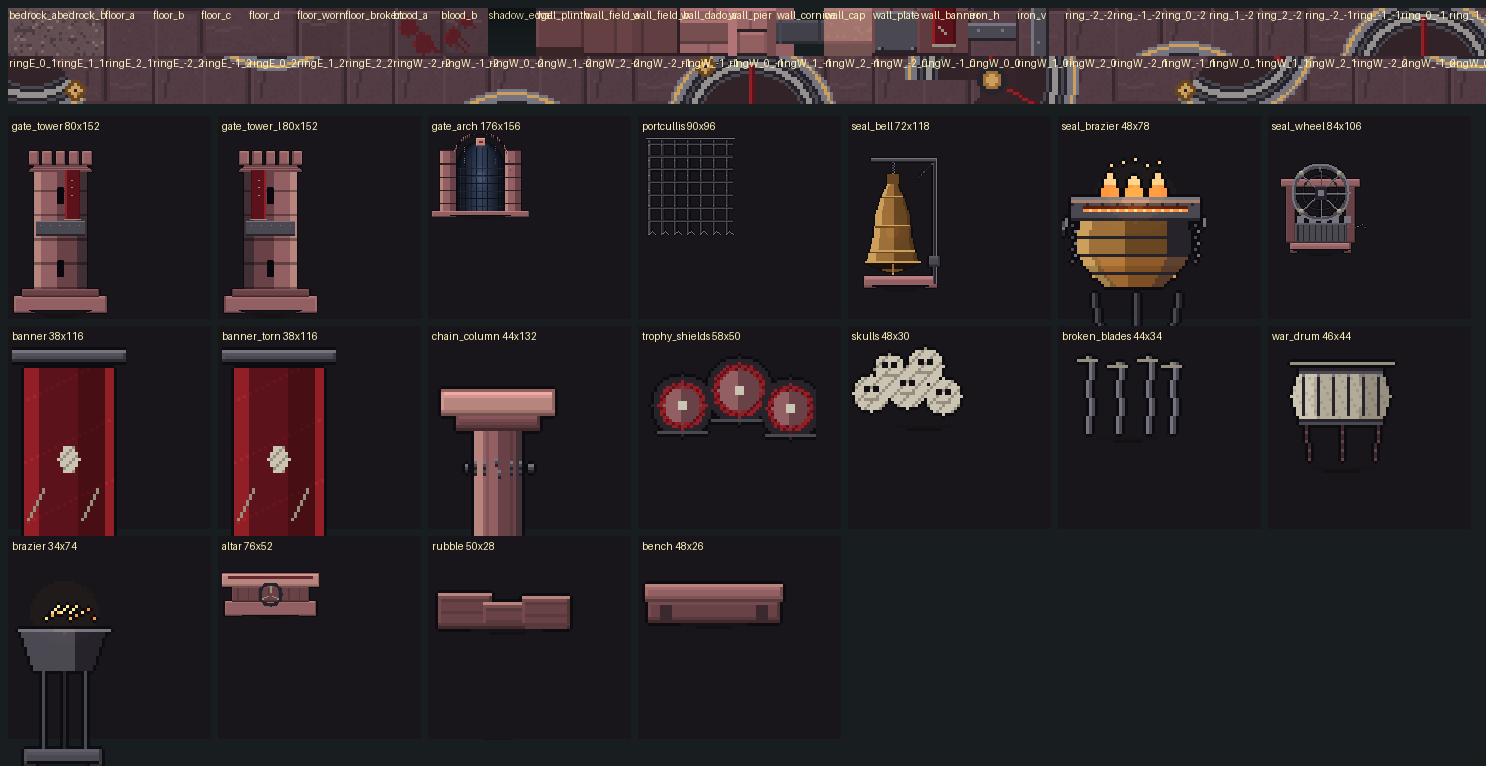
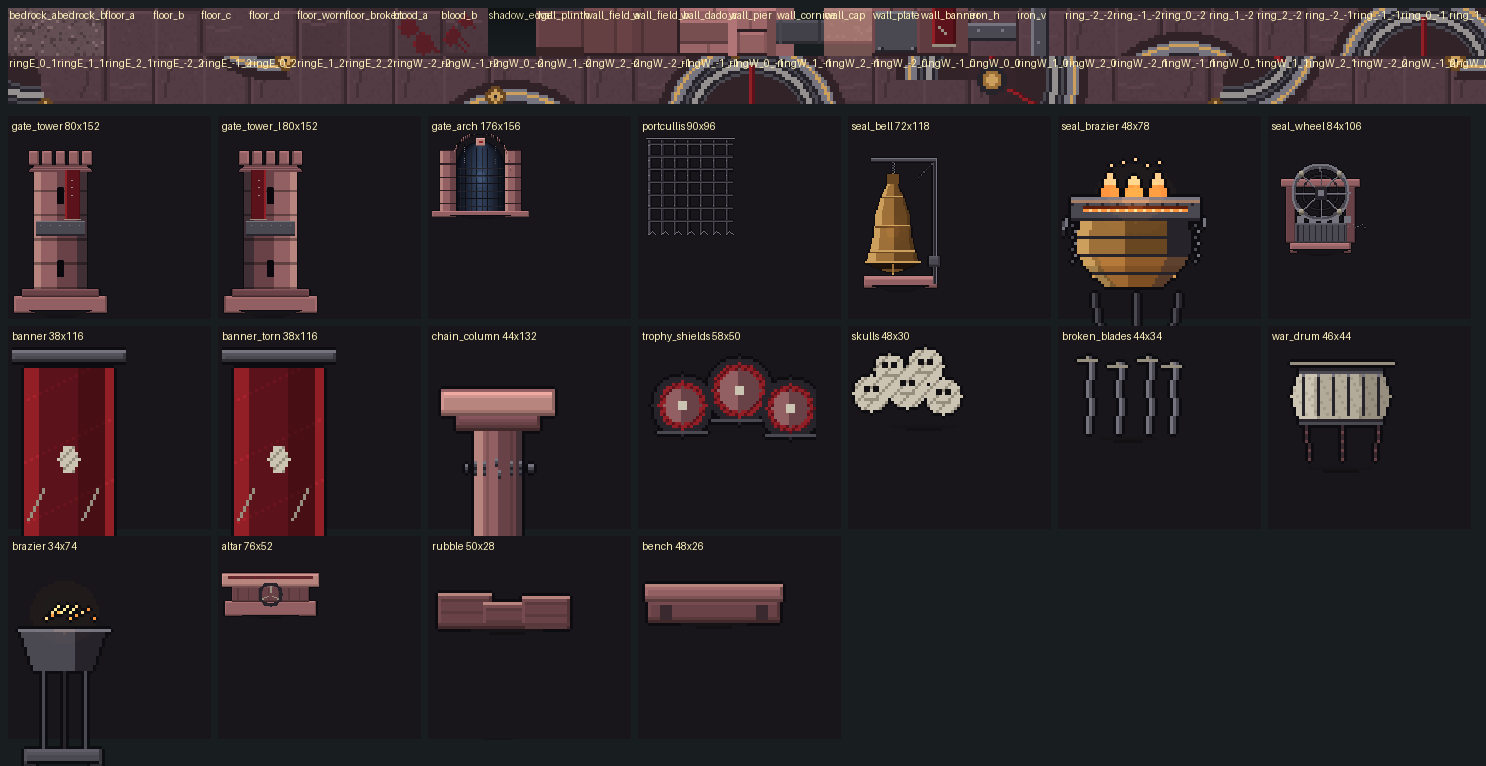
fix(chapter1-l9): give the seal rings a pad, a socket and a value of their own
The rings were cut as horseshoes in the previous commit but the cut ends were
still invisible: a socket drawn at the arc's extremity falls in the wall cell
beyond it, and no floor frame can be painted there. Measured against the room,
the only angles whose ends land in a paintable column are wide ones, so the cut
is now 80 degrees and each end carries a bronze socket cap with a bolt - inside
the last floor cell.

They were also still nearly invisible for a second reason: near-black iron on
oxblood paving, at a third of its value under this level's ambient, is one
value. Every ring now sits on a recessed dark pad that reads as a channel cut
into the paving, and the arc body is steel and brass with the blood spokes the
only saturated red left on it.

diff --git a/tools/level9/art_gatehouse.py b/tools/level9/art_gatehouse.py
@@ -211,14 +211,33 @@ def ring_tiles(radius: int, opening: str | None = None, tag: str = "ring"):
             canvas.paste(flag(43, (tx % 2) + (ty % 2) * 2), (tx * T, ty * T))
     cx = cy = (size - 1) / 2.0
     r_out = radius * T - 3
-    gap = {"E": (-52.0, 52.0), "W": (128.0, 232.0),
-           "N": (-142.0, -38.0), "S": (38.0, 142.0)}.get(opening or "")
+    # The cuts are wide on purpose. At the west and east stations the wall stands
+    # only two cells from the seal, so a cut at 52 degrees would put both ends in
+    # cells that belong to the wall - and a floor frame cannot be painted there.
+    # At 80 degrees the ends fall inside the last paintable column, which is the
+    # only place a socket on the end of a horseshoe can visibly exist.
+    gap = {"E": (-80.0, 80.0), "W": (100.0, 260.0),
+           "N": (-170.0, -10.0), "S": (10.0, 170.0)}.get(opening or "")
 
     def in_gap(angle_deg: float) -> bool:
         if gap is None:
             return False
         a = ((angle_deg + 180.0) % 360.0) - 180.0
         return gap[0] <= a <= gap[1]
+
+    # A dark inlaid pad under the whole mechanism. The ring is nearly black iron
+    # and brass: on oxblood paving, at a third of its value under this level's
+    # ambient, a ring drawn straight onto the floor was invisible. The pad gives
+    # the metal something to sit on, and reads as a channel cut into the paving.
+    pad = mix(STONE_DARK, JOINT, 0.62)
+    for y in range(size):
+        for x in range(size):
+            d = math.hypot(x - cx, y - cy)
+            if d > r_out + 3:
+                continue
+            if in_gap(math.degrees(math.atan2(y - cy, x - cx))):
+                continue
+            px(canvas, x, y, pad)
 
     for y in range(size):
         for x in range(size):
@@ -258,21 +277,23 @@ def ring_tiles(radius: int, opening: str | None = None, tag: str = "ring"):
                 px(canvas, x, y, BRONZE)
             elif d < 5:
                 px(canvas, x, y, IRON_DARK)
-    # terminal collars: each cut end is capped with a bronze socket and a bolt,
-    # so the break is an authored stop where the mechanism enters the plinth
+    # Terminal socket: where a horseshoe is cut at the wall, the mechanism does
+    # not just stop - it enters a bronze socket set into the paving. Drawn on the
+    # *painted* side of the cut, because the cells beyond it are wall and can
+    # never carry a floor frame; a collar drawn in the gap was never visible.
     if gap is not None:
         for angle_deg in gap:
             a = math.radians(angle_deg)
-            bx = cx + math.cos(a) * (r_out - 4)
-            by = cy + math.sin(a) * (r_out - 4)
+            bx = int(cx + math.cos(a) * (r_out - 3))
+            by = int(cy + math.sin(a) * (r_out - 3))
             for oy in range(-3, 4):
                 for ox in range(-3, 4):
                     if abs(ox) + abs(oy) > 4:
                         continue
-                    px(canvas, int(bx) + ox, int(by) + oy,
+                    px(canvas, bx + ox, by + oy,
                        BRONZE_LIGHT if abs(ox) + abs(oy) < 3 else BRONZE_DARK)
-            px(canvas, int(bx), int(by), IRON_DARK)
-            px(canvas, int(bx) + 1, int(by) + 1, BRONZE)
+            px(canvas, bx, by, IRON_DARK)
+            px(canvas, bx, by + 1, BRONZE)
     frames = {}
     for ty in range(span):
         for tx in range(span):
